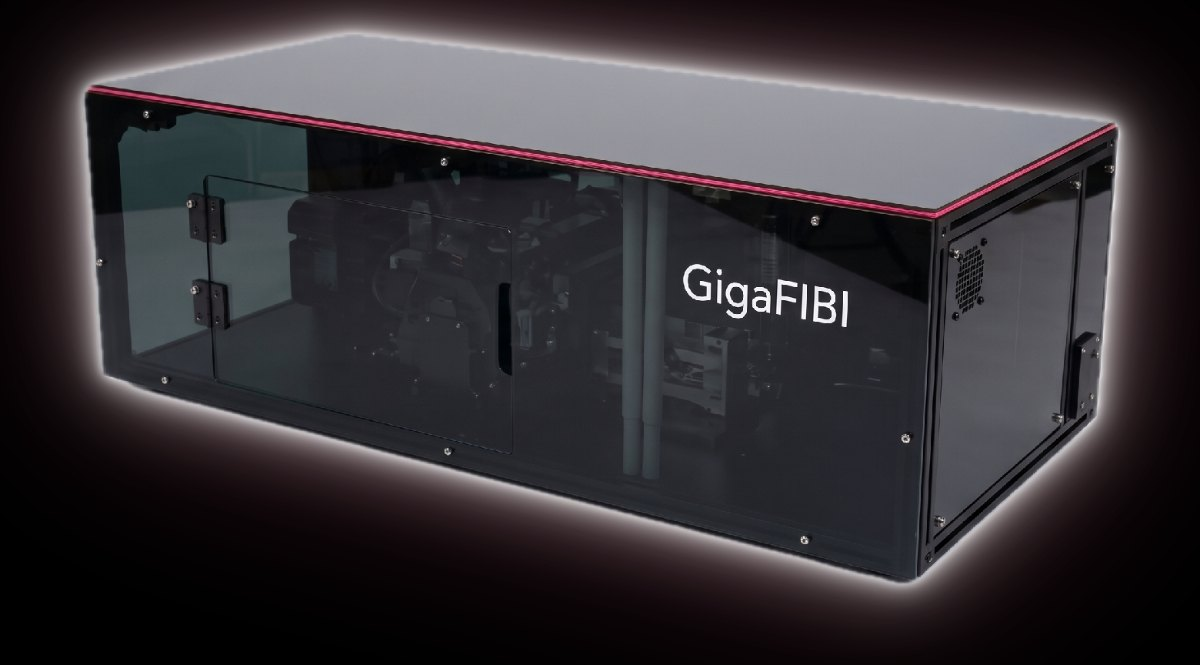
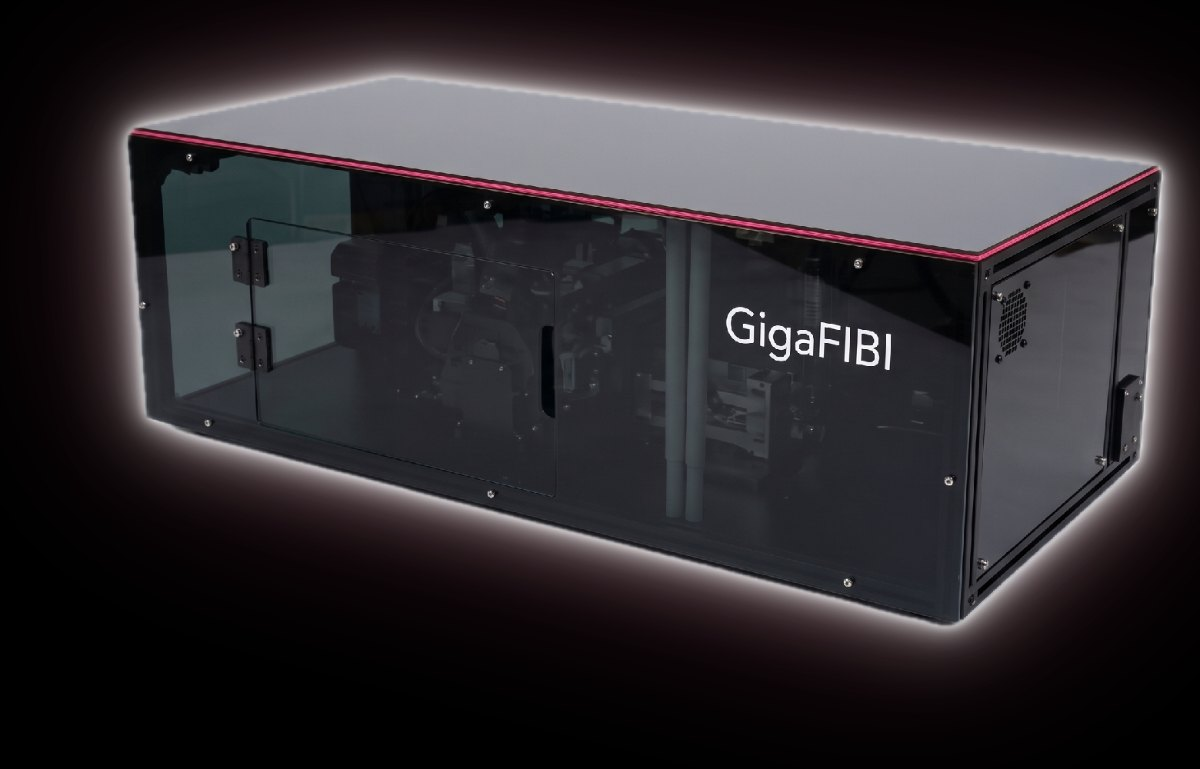
Add files via upload

diff --git a/index.html b/index.html
@@ -188,7 +188,7 @@
           </div>
           <div style="font:400 36px 'Helvetica Neue',Inter,sans-serif; letter-spacing:-.02em; margin-bottom:14px">GigaFIBI</div>
           <p style="font:400 16px/1.7 'Helvetica Neue',Inter,sans-serif; color:#C0BDCE; margin:0 0 30px">Broad tissue-surface imaging, with an initial focus on breast lumpectomy margin assessment.</p>
-          <div style="height:265px; background:#000000; display:flex; align-items:center; justify-content:center; padding:10px 18px">
+          <div style="height:265px; background:#000000; display:flex; align-items:center; justify-content:center; padding:14px 22px; overflow:hidden">
             <img loading="lazy" src="./img/gigafibi-card-crop.jpg" alt="GigaFIBI development instrument from ClarusDx materials" style="display:block; max-width:100%; max-height:100%; object-fit:contain; mix-blend-mode:screen">
           </div>
           <div style="display:flex; justify-content:space-between; padding-top:26px; font:400 12px 'Helvetica Neue',Inter,sans-serif; color:#8D8A9E">
